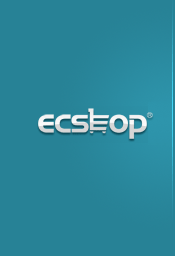
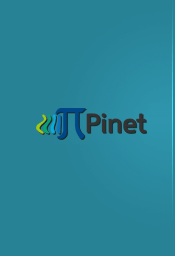
modify basic info

Changed region(s): [[0.2, 0.4062, 0.8857, 0.5625]]

diff --git a/languages/zh_cn/admin/common.php b/languages/zh_cn/admin/common.php
@@ -13,8 +13,8 @@
  * $Id: common.php 17217 2011-01-19 06:29:08Z liubo $
 */
 
-$_LANG['app_name'] = 'ECSHOP';
-$_LANG['cp_home'] = 'ECSHOP 管理中心';
+$_LANG['app_name'] = '派尔商城';
+$_LANG['cp_home'] = '派尔商城 管理中心';
 $_LANG['copyright'] = '版权所有 &copy; 2005-2012 上海商派网络科技有限公司，并保留所有权利。';
 $_LANG['query_info'] = '共执行 %d 个查询，用时 %s 秒';
 $_LANG['memory_info'] = '，内存占用 %0.3f MB';

diff --git a/data/config.php b/data/config.php
@@ -30,6 +30,6 @@ define('AUTH_KEY', 'this is a key');
 
 define('OLD_AUTH_KEY', '');
 
-define('API_TIME', '');
+define('API_TIME', '2015-06-03 16:32:43');
 
 ?>
